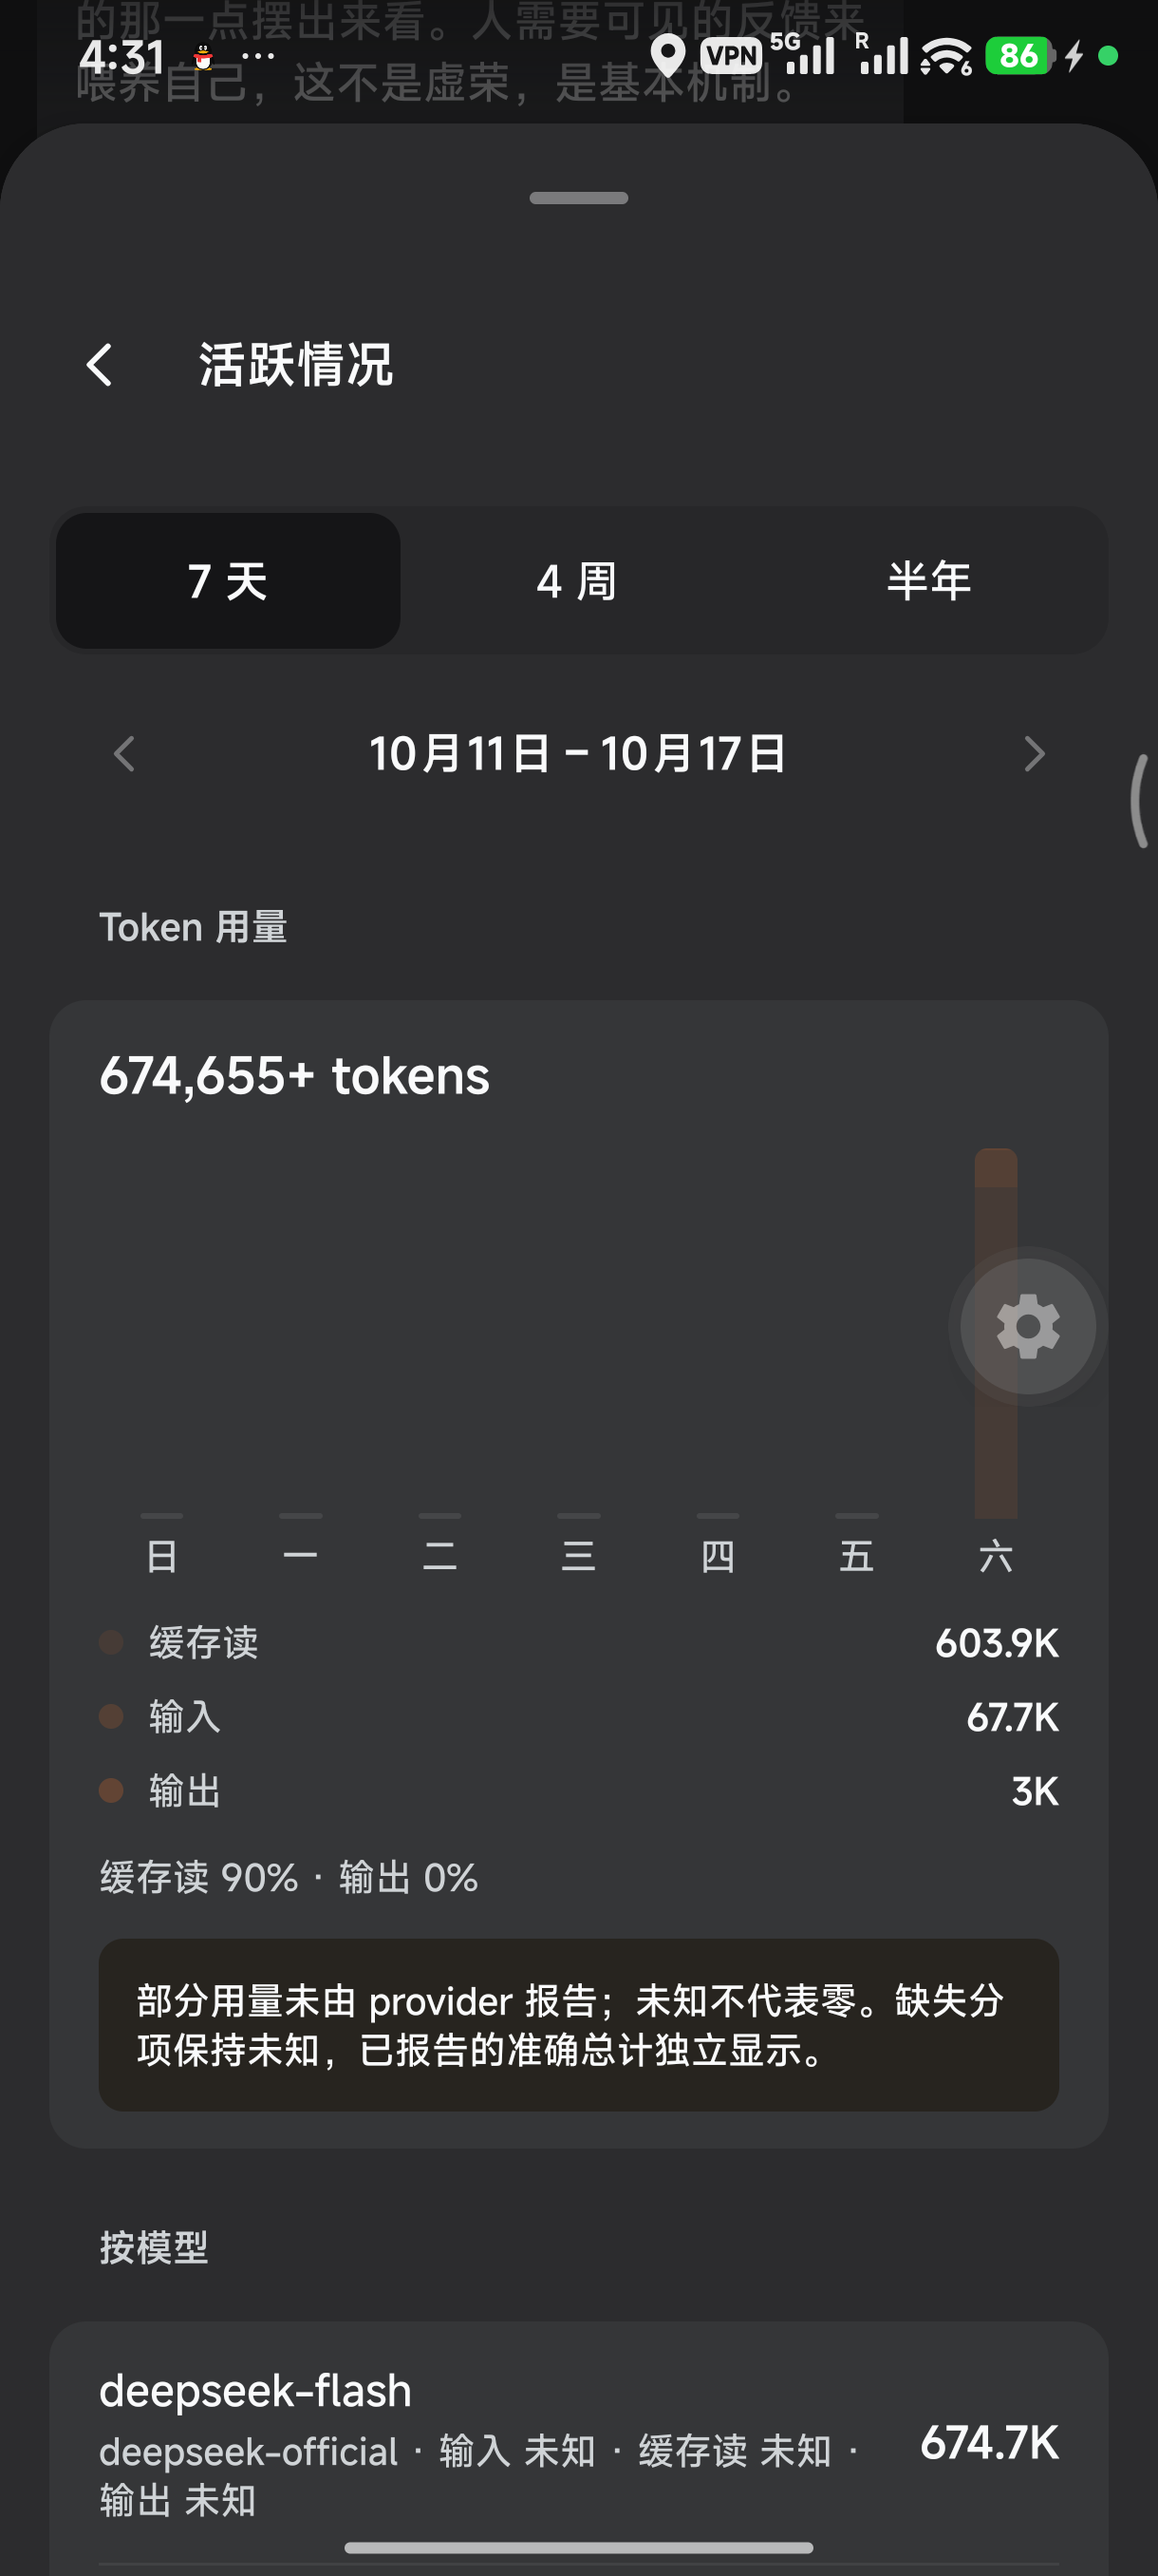
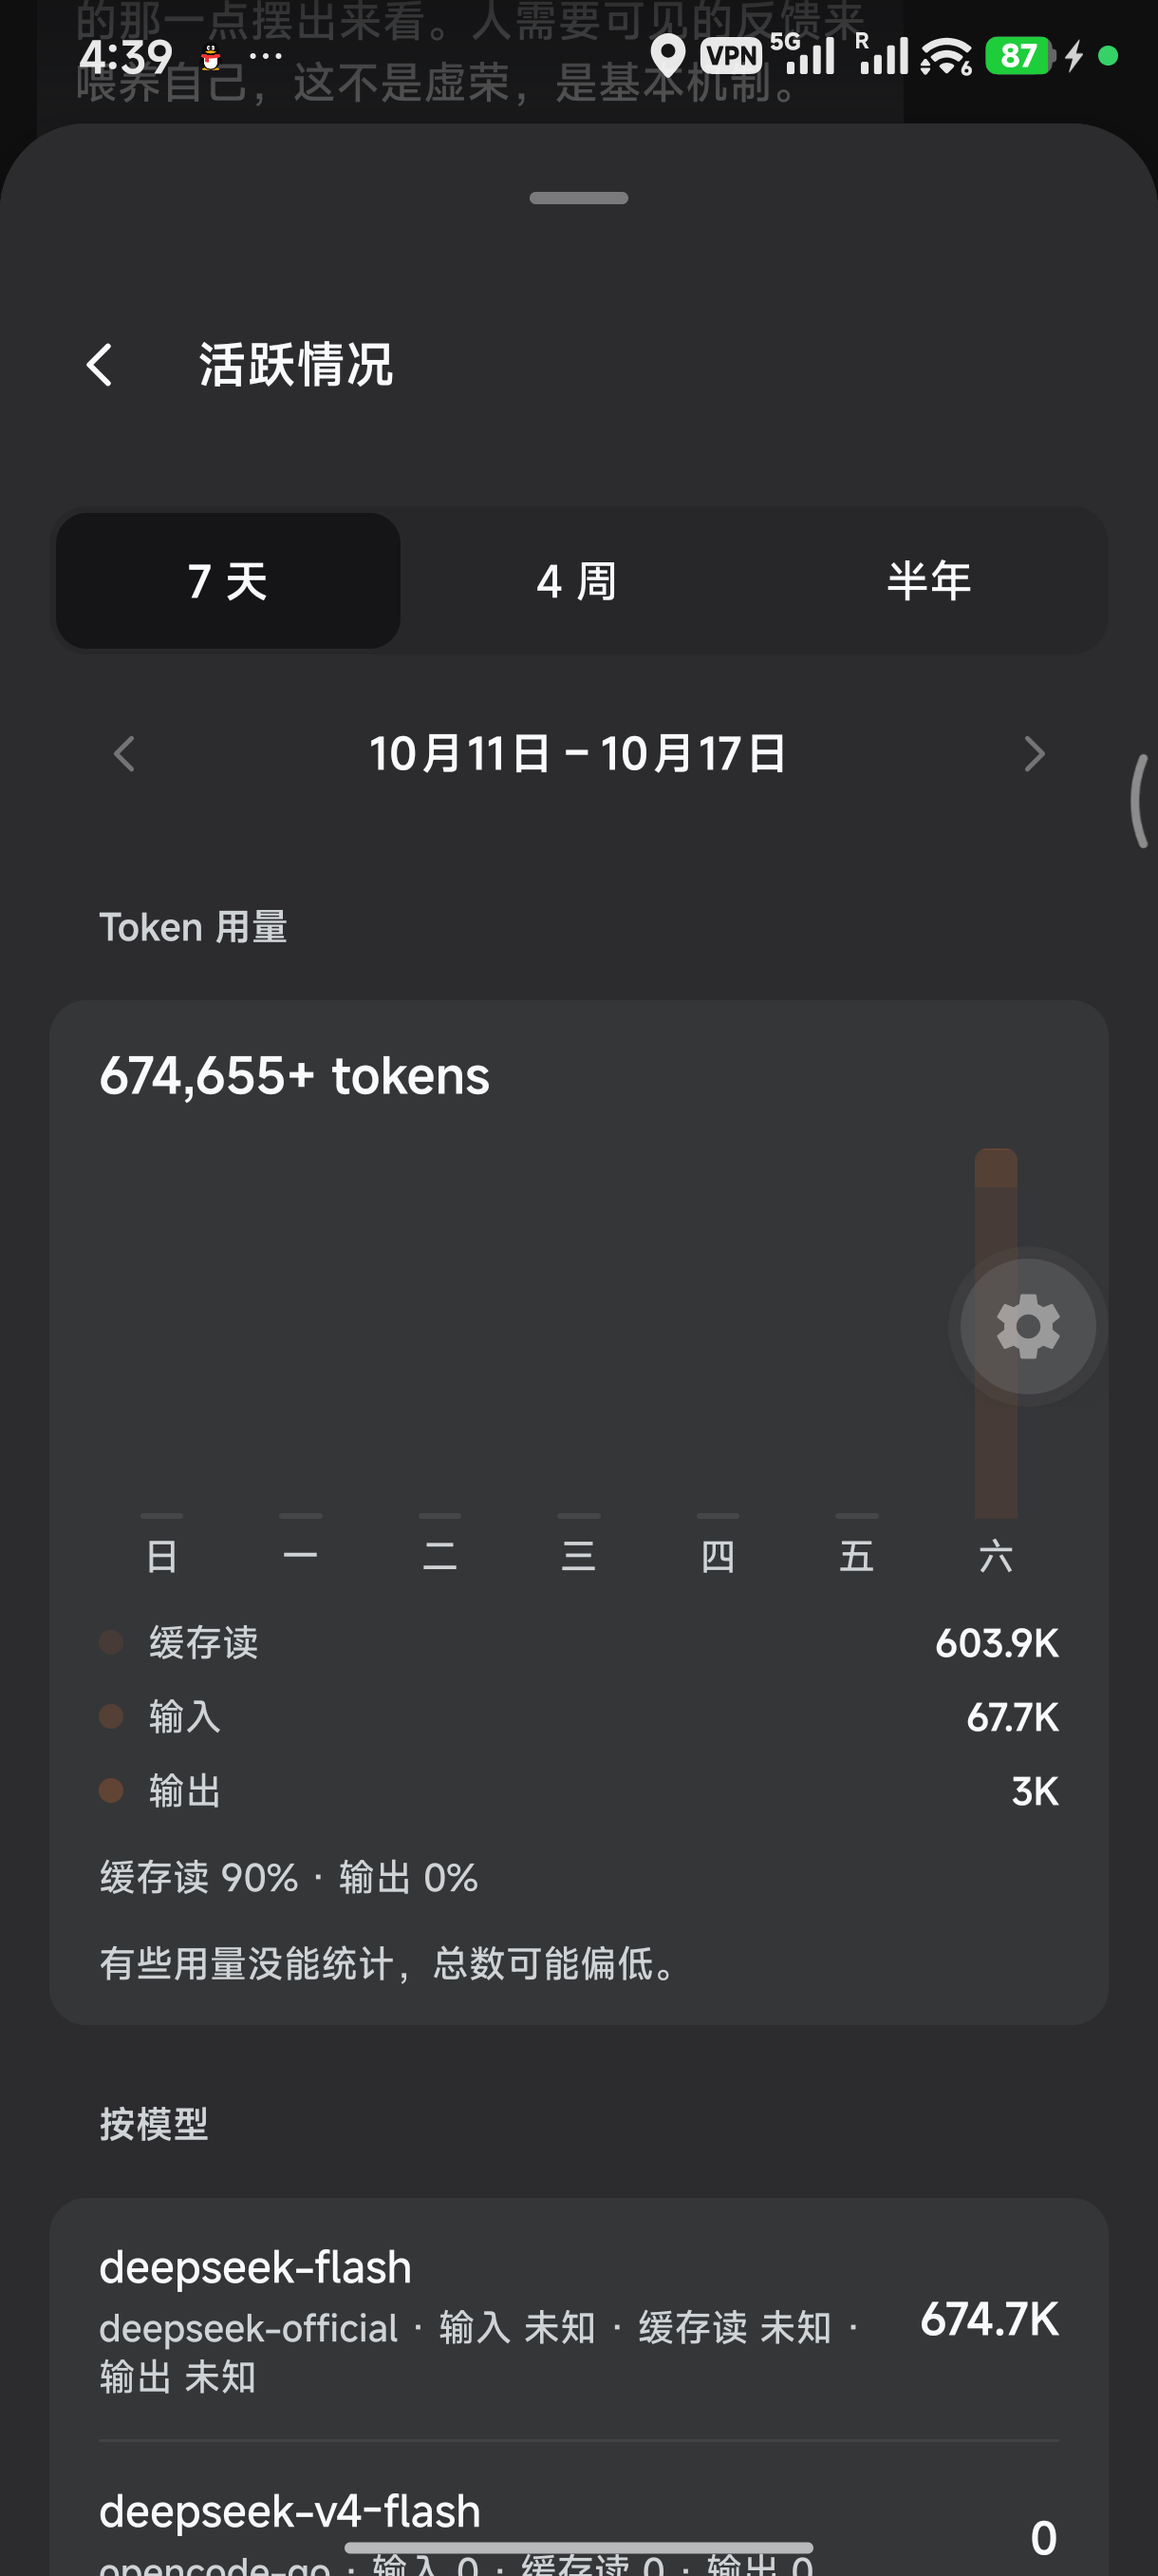
fix(mobile): match usage precision and partial-total hints
Issue: #2028

Agent-Task: codex/local/01a145e7-8579-7ec3-b958-d3bef00fc347

diff --git a/apps/mobile/test/activity-detail.test.tsx b/apps/mobile/test/activity-detail.test.tsx
@@ -98,7 +98,7 @@ describe('Bot Activity screen', () => {
     expect(text).toContain('deepseek-v4');
     expect(text).toContain(t.activityReason['group-mention']);
     expect(text).toContain(t.activityCount(2));
-    expect(text).not.toContain(t.activityPartial);
+    expect(text).not.toContain(t.usagePartial);
     expect(button(view, t.activityLater).disabled).toBe(true);
     expect(button(view, t.activityWindow[1]!).getAttribute('aria-selected')).toBe('true');
   });
@@ -110,8 +110,8 @@ describe('Bot Activity screen', () => {
     await act(async () => button(view, t.activityWindow[4]!).click());
     await act(async () => undefined);
     expect(load).toHaveBeenLastCalledWith({ weeks: 4 });
-    expect(view.textContent).toContain(t.activityTokens('4,000+'));
-    expect(view.textContent).toContain(t.activityPartial);
+    expect(view.textContent).toContain(t.activityTokens('4,000'));
+    expect(view.textContent).toContain(t.usagePartial);
 
     await act(async () => button(view, t.activityEarlier).click());
     await act(async () => undefined);

diff --git a/apps/mobile/src/ui/chat/activity-detail.tsx b/apps/mobile/src/ui/chat/activity-detail.tsx
@@ -187,16 +187,18 @@ function TokenCard({ detail, range }: { detail: ActivityDetail; range: string })
             )}
           </Text>
         )}
-        {detail.total.status === 'partial' || detail.total.status === 'unknown' ? (
-          <View
-            style={{
-              padding: space.x4,
-              borderRadius: radius.sm,
-              backgroundColor: theme.color.warningSoft,
-            }}
-          >
-            <Text variant="meta">{t.activityPartial}</Text>
-          </View>
+        {detail.total.status === 'partial' ||
+        detail.total.status === 'unknown' ||
+        detail.models.some(
+          (model) =>
+            model.input === null ||
+            model.output === null ||
+            model.cacheRead === null ||
+            model.cacheWrite === null,
+        ) ? (
+          <Text variant="meta" tone="muted">
+            {t.usagePartial}
+          </Text>
         ) : null}
       </Card>
       {detail.models.length === 0 ? null : (

diff --git a/apps/mobile/src/host/bot-activity.ts b/apps/mobile/src/host/bot-activity.ts
@@ -122,12 +122,7 @@ export function tokenTotal(
   if (activity.modelUsageStatus !== 'ready') return { status: 'unavailable', total: null };
   if (rows.length > 0 && rows.every((row) => row.totalTokens === null))
     return { status: 'unknown', total: null };
-  const partial = rows.some(
-    (row) =>
-      row.partial === true ||
-      row.totalTokens === null ||
-      BUCKETS.some((bucket) => row[bucket] === null),
-  );
+  const partial = rows.some((row) => row.partial === true || row.totalTokens === null);
   const total = rows.reduce((sum, row) => sum + (row.totalTokens ?? 0), 0);
   if (total === 0 && rows.some((row) => row.totalTokens === null))
     return { status: 'unknown', total: null };

diff --git a/apps/mobile/test/bot-activity.test.ts b/apps/mobile/test/bot-activity.test.ts
@@ -134,6 +134,14 @@ describe('Bot activity', () => {
     ).toEqual({ status: 'partial', total: 300 });
   });
 
+  it('does not mark an exact reported total as a lower bound just because a split is unknown', () => {
+    expect(
+      tokenTotal({ modelUsageStatus: 'ready' }, [
+        { ...row('2026-10-15', 1000), cacheReadTokens: null },
+      ]),
+    ).toEqual({ status: 'ready', total: 1000 });
+  });
+
   it('keeps reported partial totals and treats zero plus unknown calls as unknown', () => {
     const reported = parseProfileActivity({
       today: '2026-10-15',
